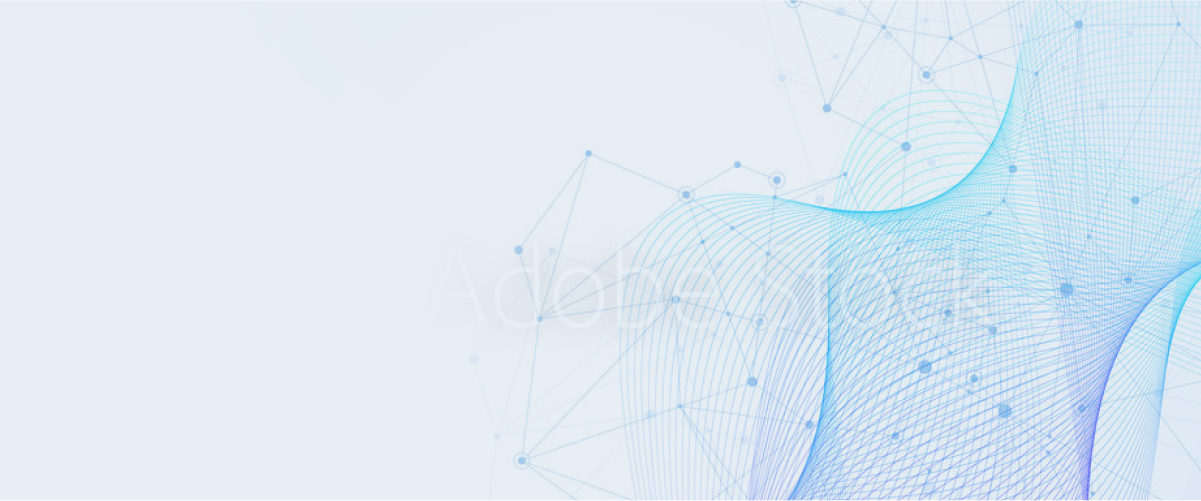
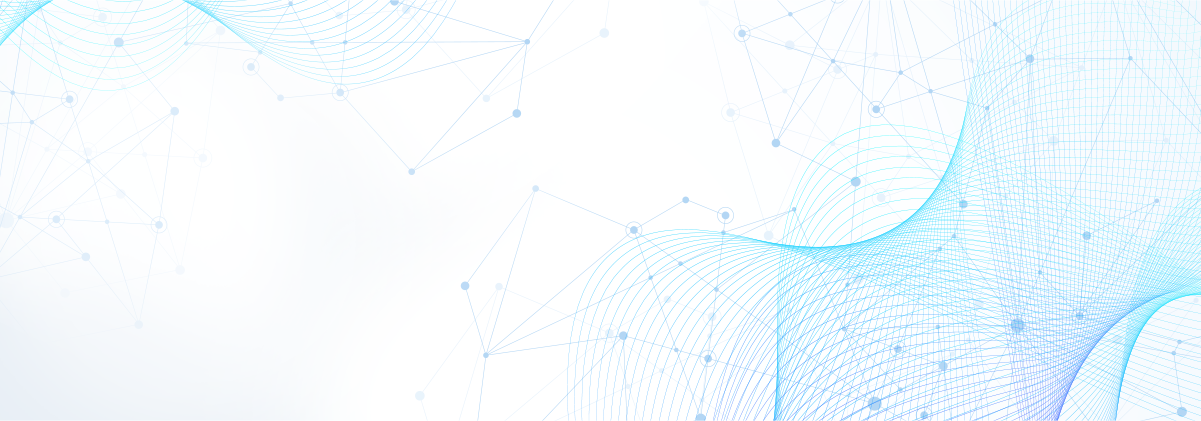
minor fixes in LP

diff --git a/src/pages/landing/landingView.js b/src/pages/landing/landingView.js
@@ -182,7 +182,7 @@ const styles = () => ({
   },
   heroImage: {
     width: '100%',
-    height: '600px',
+    height: '420px',
     backgroundRepeat: 'no-repeat',
     backgroundSize: '100% 100%',
     backgroundImage: `url(${landingPageData.landingPageHero.img})`,
@@ -215,7 +215,7 @@ const styles = () => ({
     letterSpacing: '0.8px',
   },
   headerTitle: {
-    paddingTop: '180px',
+    paddingTop: '70px',
     paddingBottom: '12px',
     fontFamily: 'Inter, Raleway, sans-serif',
     fontSize: '42px',
@@ -233,8 +233,8 @@ const styles = () => ({
     fontSize: '16px',
     fontWeight: '500',
     lineHeight: '29px',
-    marginTop: '20px',
-    marginBottom: '20px',
+    marginTop: '16px',
+    marginBottom: '26px',
   },
   headerLink: {
     textDecoration: 'none',
@@ -478,6 +478,7 @@ const styles = () => ({
   },
   buttonText: {
     padding: '12px 30px',
+    height: '40px',
   },
 });
 export default withStyles(styles, { withTheme: true })(LandingView);

diff --git a/src/bento/landingPageData.js b/src/bento/landingPageData.js
@@ -55,7 +55,7 @@ export const landingPageData = {
     alt: '',
     img: 'https://raw.githubusercontent.com/CBIIT/bento-frontend/master/src/assets/landing/tileAnalytics.png',
     titleText: 'Resources',
-    descriptionText: 'Use Bento to you build your own data sharing platform.',
+    descriptionText: 'Use Bento to build your data sharing platform.',
     callToActionText: 'Read More',
     callToActionLink: '/resources', // Link to the "Resources" Static Page
   },
